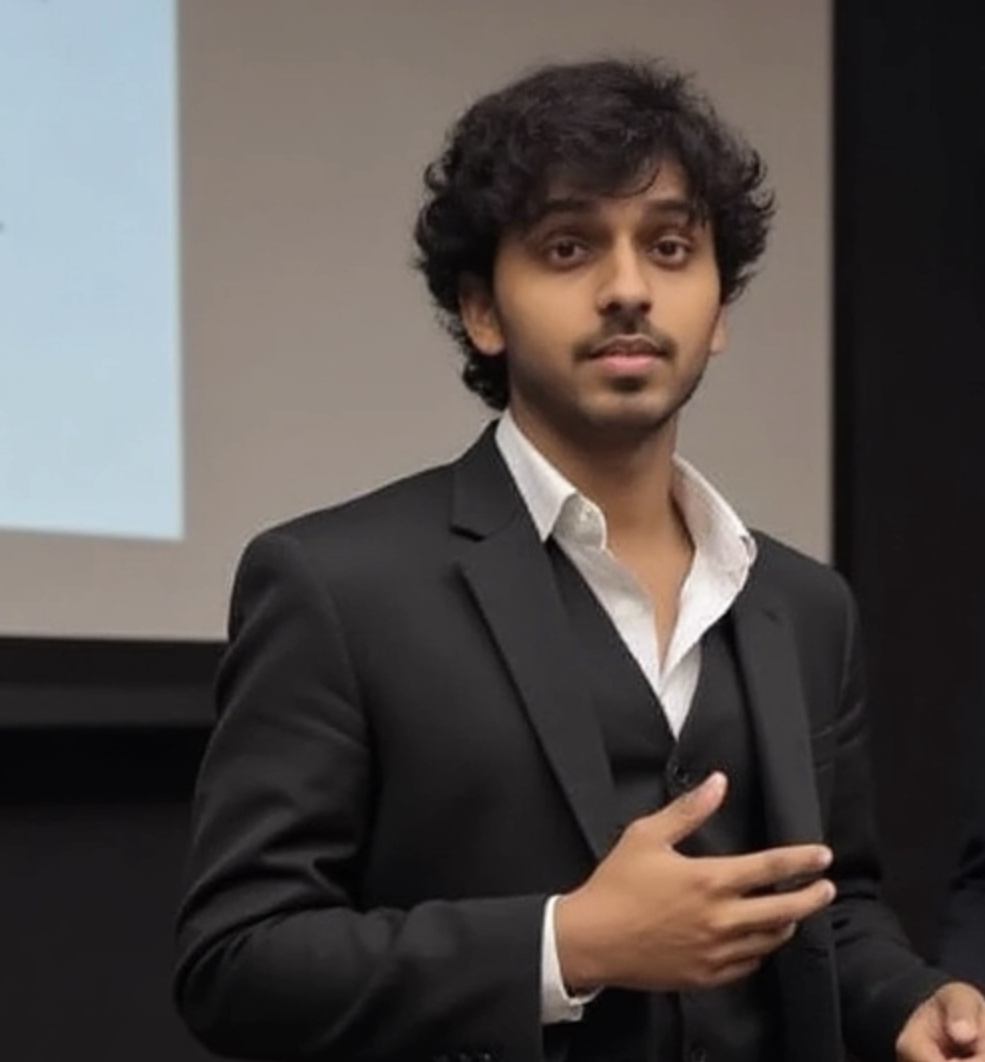
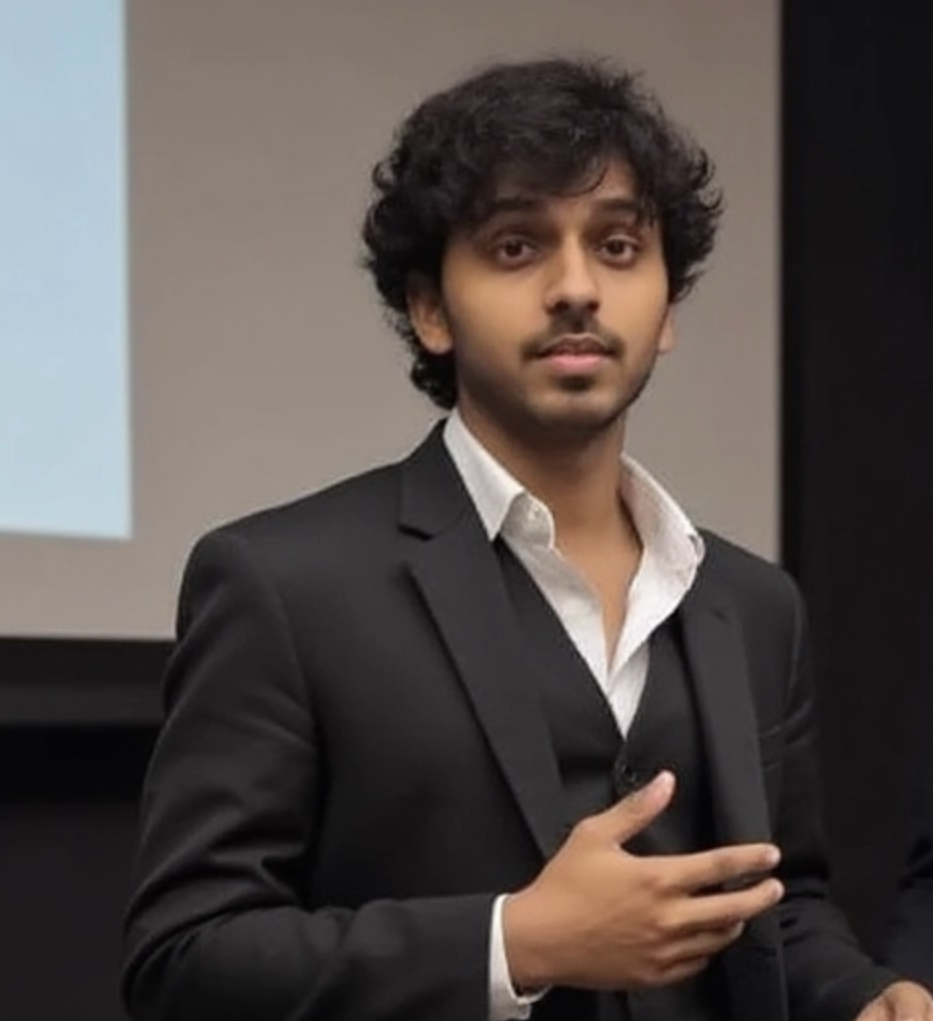
New version

diff --git a/index.html b/index.html
@@ -78,8 +78,8 @@
     <div class="container">
 
 
-        <!-- <img src="image3.png" style="width: 25%; padding-top: 50px;" id="profile"> -->
-        <img src="image3.png" id="profile">
+        <img src="image3.png" style="width: 25%; padding-top: 50px;" id="profile">
+        <!-- <img src="image3.png" id="profile"> -->
 
 
 
